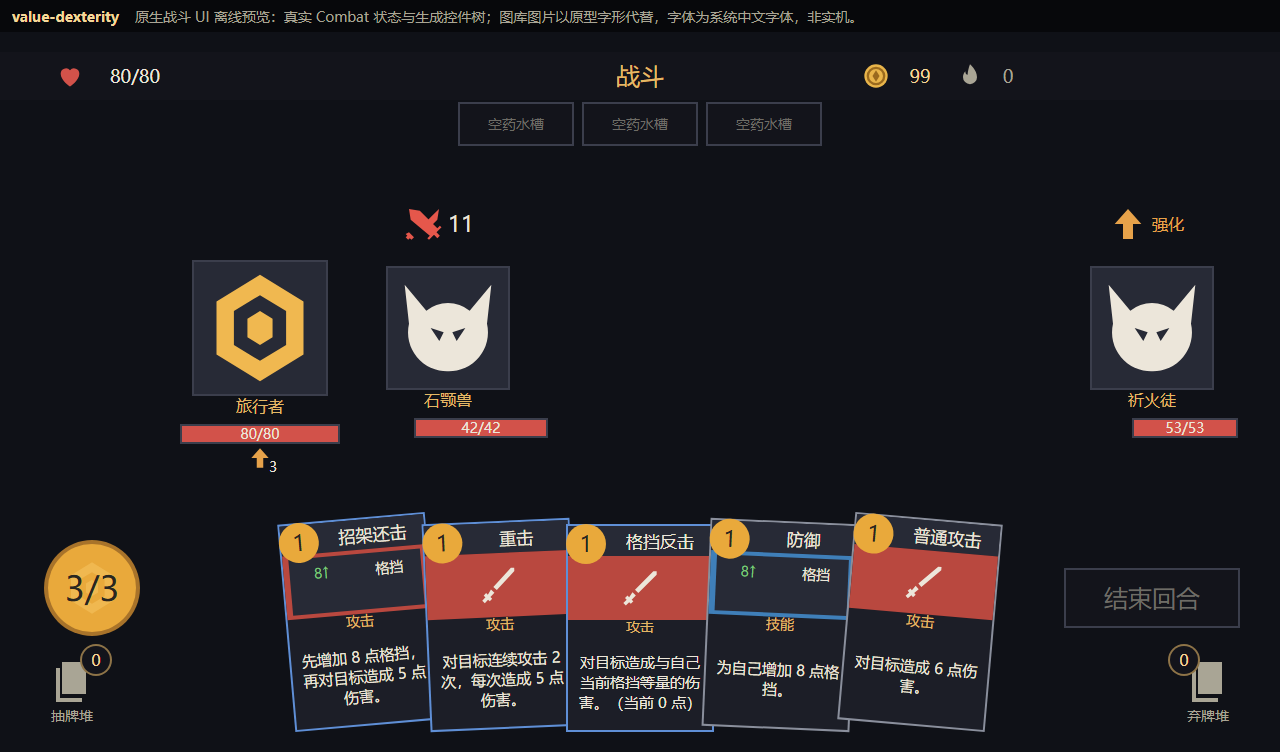
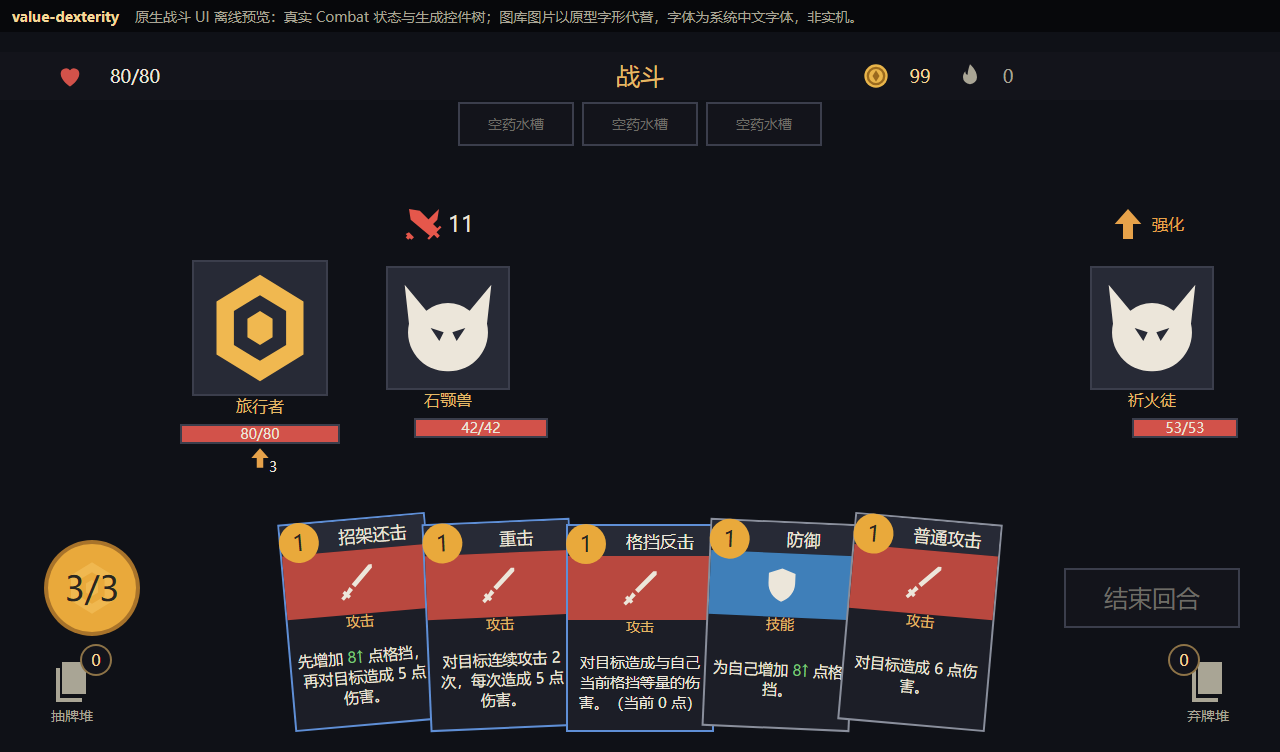
fix(ui): keep dynamic values inline with the original card description

diff --git a/docs/backlog-details/card-value-feedback.md b/docs/backlog-details/card-value-feedback.md
@@ -1,39 +1,46 @@
 # TASK-4.6 战斗卡牌数值反馈
 
[2 lines of base64/hex data omitted]
 
-## 实现
+## 最终表现：原句内数字变色
 
-- `abyss_card_display`只比较当前 cardDefinition 的 effect.value 与同 index 的 cardPreview.low（且low==high），输出数字、方向与主题键；不参与结算。
-- 支持 damage/damageAll/block，升级与永久成长的当前定义为基准；最终抵消为原值时中性。Body Slam、抽牌、回血、状态层数等不套方向色。
-- 每次 render 清空反馈文本、颜色和可见性，再只为当前实例生成；瞄准目标只传给正在瞄准的牌。费用禁用色保持独立。
-- B档：全文说明不变，在插图区内放深色小面板、独立数字及↑/↓、中性效果名；变化时临时取代图库示意图，不改变类型条、牌名、费用、卡片尺寸或命中区。数字在左半边，避免10牌扇形遮住新信息。多段标为“每段”，双效果分行，各自比较。当前全部基础/升级卡最多2个可比效果，测试锁定容量。
-- 专用主题色 increase `#7DC77A`、decrease `#EF7672`，不改全局 positive/danger。实际反馈底色 `#272A36`：理论对比7.019:1、5.103:1；非整游戏WCAG认证。
+参照包内固定原版镜像`fc379c875c11e008e9c10548ac8e394c301c532f`的`AbstractCard.getDynamicValue/renderDynamicVariable`：动态数字仍处于原说明句中，只有变化数字局部红绿。紧贴数字的↑/↓是本项目无障碍补充，不冒充原版已有箭头。
 
-## 原生能力与限制边界
+- 例：“为自己增加 3↓ 点格挡。”只对3↓着色，其他文字不变。双效果分别比较、分别着色；多段显示每段值，不合计改写。
+- 保留原卡面、插图区图标、费用、类型、完整说明、148×208卡片、132×92说明、最小字号14及原命中区。**不新增独立数值面板，不替换卡面图标。**
+- `abyss_card_display.values`只读同index的cardDefinition.effects与cardPreview（low==high）；升级/永久成长后的定义为基准。`format`只编码同一个动态数字的原生颜色标签与箭头，不改战斗状态或公式。
+- 仅damage/damageAll/block可比较；最终等于基准时中性。Body Slam沿用中性当前值，状态层数、抽牌、固定药水/遗物值不套战斗数字色。
+- 瞄准目标只传给正在瞄准的牌；取消、换目标、状态移除、重排、奖励复用时每次生成完整说明，旧色与箭头随之消失。费用禁用色独立。
+- 专用主题色`#7DC77A`/`#EF7672`，不改全局positive/danger；原说明底`#1C1E27`理论对比8.164:1、5.935:1。灰阶仍可用↑/↓，不宣称整游戏WCAG认证。
 
-已读本机MCP workflow/platform-rules；平台规则有实测 `text` 与 `fontColor=Color(...)` 当帧更新。离线官方API目录来源为“附录/客户端控件API文档 mhtakr07vej4”，有fontColor、raycastTarget、disableCursorEventPassthrough，未提供已核实的文本局部颜色接口。**这不证明平台不能内联着色**，没有向生产控件注入HTML/富文本标签。本轮选择已知独立文本控件B档，A档内联着色仍未验证，不冒充A档。
+## 原生行内能力已实测
 
-新增对象不含cursorArea/presetButton/focusable/blockCursor/blockKeys；原有card/hit在它们上面。源树/本地输入回归不是实际触屏派发的证明。
+已读MCP workflow/platform-rules。1849为独立能力探针，仅用于验证原生文本解析；不是交付构图或完整游戏验收。
 
-群攻保留既有第一存活目标的显示语义和逐敌预览；它不代表所有敌人的最终伤害相等，不发明范围或改核心。奖励、商店、牌库、营地不调用本战斗反馈模块。
[1 lines of base64/hex data omitted]
+- run：`e4c4cfaa-4977-41ee-a32a-46e5711126d7`，显式`clientScriptLog:true`，本轮新日志打印`CARD_INLINE_PROBE_READY`。
+- 真实截图确认同一132×92原生文本框可解析`<color=#EF7672>3↓</color>`、`<color=#7DC77A>8↑</color>`，正常中文换行、箭头有字形、混合效果可分别红绿，其余文字保持中性色，未显示字面标签。
+- [原生探针截图](../evidence/card-value-feedback/native-probe/inline-colour-1849.png)只裁掉底部UID区，未修改文字/颜色。完整原图、请求、日志与存档在根`.artifacts/card-inline-probe`和`.artifacts/card-native/live/playtests/<run>`。
+- 上述只证明原生行内能力；**真实卡牌倾斜、状态刷新、触摸与手机适配须用最终同源候选另验**，不能复用探针认证。
 
-## 可复现检查
+生产控件使用已实测的原生颜色语法，不接收HTML/CSS。`native-inline-preview.mjs`仅将原生颜色标签转换为离线浏览器预览，不能当成平台渲染证明。
 
-`npm run build:theme`、`npm run build:ui`、`node scripts/test-lua.mjs tests/lua/card_value_display.lua`、`node scripts/test-lua.mjs tests/lua/card_preview.lua`、`node --test tests/card-value-feedback.test.mjs`、`npm run test:lua`、`npm run check`。
+## 测试与复现
 
-离线可视化：`node scripts/battle-ui-preview.mjs <输出目录>`；新场景value-neutral/frail/dexterity/weak/mixed/aim/cancel/ten/ten-selected。这是实际核心状态+生成树的离线浏览器图，**不是千星实机**。
+`npm run build:theme`、`npm run build:ui`、`node scripts/test-lua.mjs tests/lua/card_value_display.lua`、`node scripts/test-lua.mjs tests/lua/card_preview.lua`、`node scripts/test-lua.mjs tests/lua/growing_card_text.lua`、`node scripts/test-lua.mjs tests/lua/card_value_fixture.lua`、`node --test tests/card-value-feedback.test.mjs`、`npm run check`。
 
-普通候选：`npm run build:native -- <底图.gil> <新目录>`；独立读回用`node scripts/audit-native-candidate.mjs --source <固定SHA> --candidate <gil> --output <新目录> --bgm`。
+离线预览：`node scripts/battle-ui-preview.mjs <新目录>`，包含neutral/frail/dexterity/weak/mixed/aim/cancel/ten/ten-selected，见[截图](../evidence/card-value-feedback/offline/value-mixed.png)。它们使用实际核心状态和生成树，图库是原型字形替身，不是实机。
 
-专项原生夹具：`node tools/card-value-feedback/build-fixture.mjs <普通候选.gil> <新目录>`。它只在独立副本加入fixture模块，修改入口为受控八阶段（无状态/脆弱/敏捷/虚弱/瞄准/取消/混合/10牌）；生产模块保持同源，但入口与状态是测试夹具，**不能作自然获取、真实拖动、手机触摸或完整通关的证据**。夹具自身有8阶段本地回归。
+普通候选独立审计：`node scripts/audit-native-candidate.mjs --source <完整SHA> --candidate <gil> --output <新目录> --bgm`。严格UI门禁：`npm run verify:ui -- <同一普通候选.gil>`；不改全局验收清单刷绿。
 
-正式同候选全屏门禁为`npm run verify:ui -- <普通候选.gil>`，不改全局清单刷绿。
+原生专项夹具：`node tools/card-value-feedback/build-fixture.mjs <普通候选.gil> <新目录>`，只在测试副本增加fixture模块并修改入口。受控八阶段为无状态/脆弱/敏捷/虚弱/瞄准/取消/混合/十牌。夹具可认证渲染，不认证自然状态获取、真实拖动、物理手机触摸或完整通关。全程`MILIASTRA_ALLOW_LIVE_WRITE=0`，不发布。
 
-## 证据与任务状态
+## 验证纪律与防复发
 
-本地基线：从695d94d归档的独立目录生成并运行原有card_preview，15组通过。早先全Lua“基线”与实现修改重叠，其失败不能归为原基线缺陷，已保留日志并作废该口径。
+最初B档独立标签被用户否决，相关旧候选和旧测试不认证新版。错误在于未先实测行内能力，就把局部数字反馈改为额外信息面板。现已撤销；卡片结构回归在旧版证红、撤销后转绿，并核对运行中图标仍可见。保护放在本项目测试，不增加全局规则。
 
-本轮专项：展示模型10组、完整原生树预览19组、夹具8阶段、布局/对比度4项通过；完整check及原生验证结果见后续专项报告，不提前宣称通过。
+群攻保留现有第一存活敌人显示和逐敌预览的既有局限，不把显示值声称为所有敌人的相同结果，不为本任务发明范围或改核心。奖励/商店/牌库/营地不调用战斗数值格式化。
 
-免费委派：TASK-51已记录用户额度耗尽、重置窗口未知，本轮仅只读核对CLI/模型零定价，不发推理请求，不回退收费模型；Codex额度节省未知。
+原695d94d独立归档的card_preview基线15组通过；旧标签版完整check通过只属历史。新版专项已有展示10组、预览19组、成长11组、夹具8阶段和布局4项通过；完整检查、最终候选、电脑/手机和全UI结果以专项报告为准，不提前记PASS。
+
+TASK-51已记录免费模型额度耗尽、窗口未知；本轮仅只读核对CLI/模型目录，没有发推理请求或收费回退，Codex额度节省未知。

diff --git a/docs/plans/2026-10-25-card-value-feedback.md b/docs/plans/2026-10-25-card-value-feedback.md
@@ -4,10 +4,12 @@
 
 1. 运行原有 card_preview 与全 Lua 基线；先新增展示模型红测覆盖包内 T01–T19/T24/T30/T31。
 2. 新增 `src/lua/abyss_card_display.lua`，输出 base/current/direction/text/colourKey；不支持或无稳定基准的效果保持中性。
-3. 核查原生文本 API。先交付 B 档候选：说明全文保留，插图区内按效果放置小型中性标题与独立红绿数字/箭头，背景采用深色主题面板；仅变动项显示，不修改卡片尺寸或命中区。A 档内联颜色尚无原生验证，不宣称平台不支持。
-4. 在 `ui_theme.json` 增加专用颜色和布局 token，生成树最多两个反馈项（当前所有卡片 eligible effects 最大为2，加入数据回归防止静默溢出）。支持净零、混合方向、升级成长、仅正在瞄准的牌更新和每次重绘清理。费用语义独立。
+3. 用户明确否决独立标签及替换卡面图标。恢复原卡面结构，按原版将数字放在原说明句内；先在独立原生探针实测行内颜色，不能拿单控件fontColor能力推导支持，也不能凭未测推导不支持。
+4. 只增加专用颜色token。原句中的变化数字局部红绿、紧贴↑/↓；保留普通文字、插画/图标、费用及全部命中区，不加独立数值面板。支持净零、混合方向、升级成长、仅正在瞄准的牌更新和每次重绘清理。费用语义独立。
 5. 扩充真实生成树回归：RGB、文案、可见性、40高文本/14最小字号、1/5/10手牌与缩放安全区、输入/只读不变量及非战斗隔离。
 6. 执行 build:theme/build:ui/test:lua/check、对比度检查。构建同源副本，独立回读与静态检查；尝试官方导入和PC专项取证，手机若无设备明确待测。严格运行 verify:ui，不改全局验收清单刷绿。
 7. 将包内T01–T32映射至真实证据，按报告模板区分本地/候选/导入/PC/手机/全UI。CI当前SHA成功后 squash PR至develop，保存可恢复历史并清理本轮分支。
 
 免费委派：TASK-51记录用户已报告限额、窗口未知；本轮仅只读确认CLI和模型目录，不发推理请求，不轮询额度，由Codex完成。
+
+防复发：`tests/card-value-feedback.test.mjs`锁定批准卡片结构，无独立反馈控件、原图标保留。该断言已在旧标签方案上证红；撤销标签后转绿。此次失误是过早放弃行内能力验证，并把局部数值反馈移成卡面额外信息层；旧测试只验证正确性/容量，未保护表现连续性。修正限于本任务及项目测试，不增加全局技能或规则。

diff --git a/backlog/tasks/task-4.6 - 让战斗卡牌数字显示增减颜色和文字提示.md b/backlog/tasks/task-4.6 - 让战斗卡牌数字显示增减颜色和文字提示.md
@@ -5,6 +5,7 @@ status: In Progress
 assignee:
   - '@Codex'
 created_date: '2026-10-24 17:08'
+updated_date: '2026-10-24 17:37'
 labels: []
 milestone: m-5
 dependencies: []
@@ -30,5 +31,11 @@ ordinal: 92000
 ## Implementation Plan
 
 <!-- SECTION:PLAN:BEGIN -->
-1. 冻结基线与矩阵；2. 先红后绿实现只读逐效果展示；3. 原生能力核查与最小布局；4. 自动回归、候选与分层证据；5. 当前SHA CI通过后PR合并develop。
+1. 撤销B档额外标签和图标替换；2. 对照原版方法级证据验证原生行内色；3. 实现原句内数字红绿与紧邻的克制非颜色线索；4. 重做布局、输入、数值与原生/手机分层回归；5. 当前SHA CI成功后合并develop。
 <!-- SECTION:PLAN:END -->
+
+## Implementation Notes
+
+<!-- SECTION:NOTES:BEGIN -->
+用户明确否决割裂的独立数值标签及替换卡面图标；当前PR194不得按B档标签版合入。改为原说明行内局部数字颜色，保持卡面/图标/原句整体；先实测原生行内能力，必要时在说明区做独立原生数值片段，不再占用插图区。旧本地PASS只认证被否决候选，不认证重做结果。
+<!-- SECTION:NOTES:END -->
